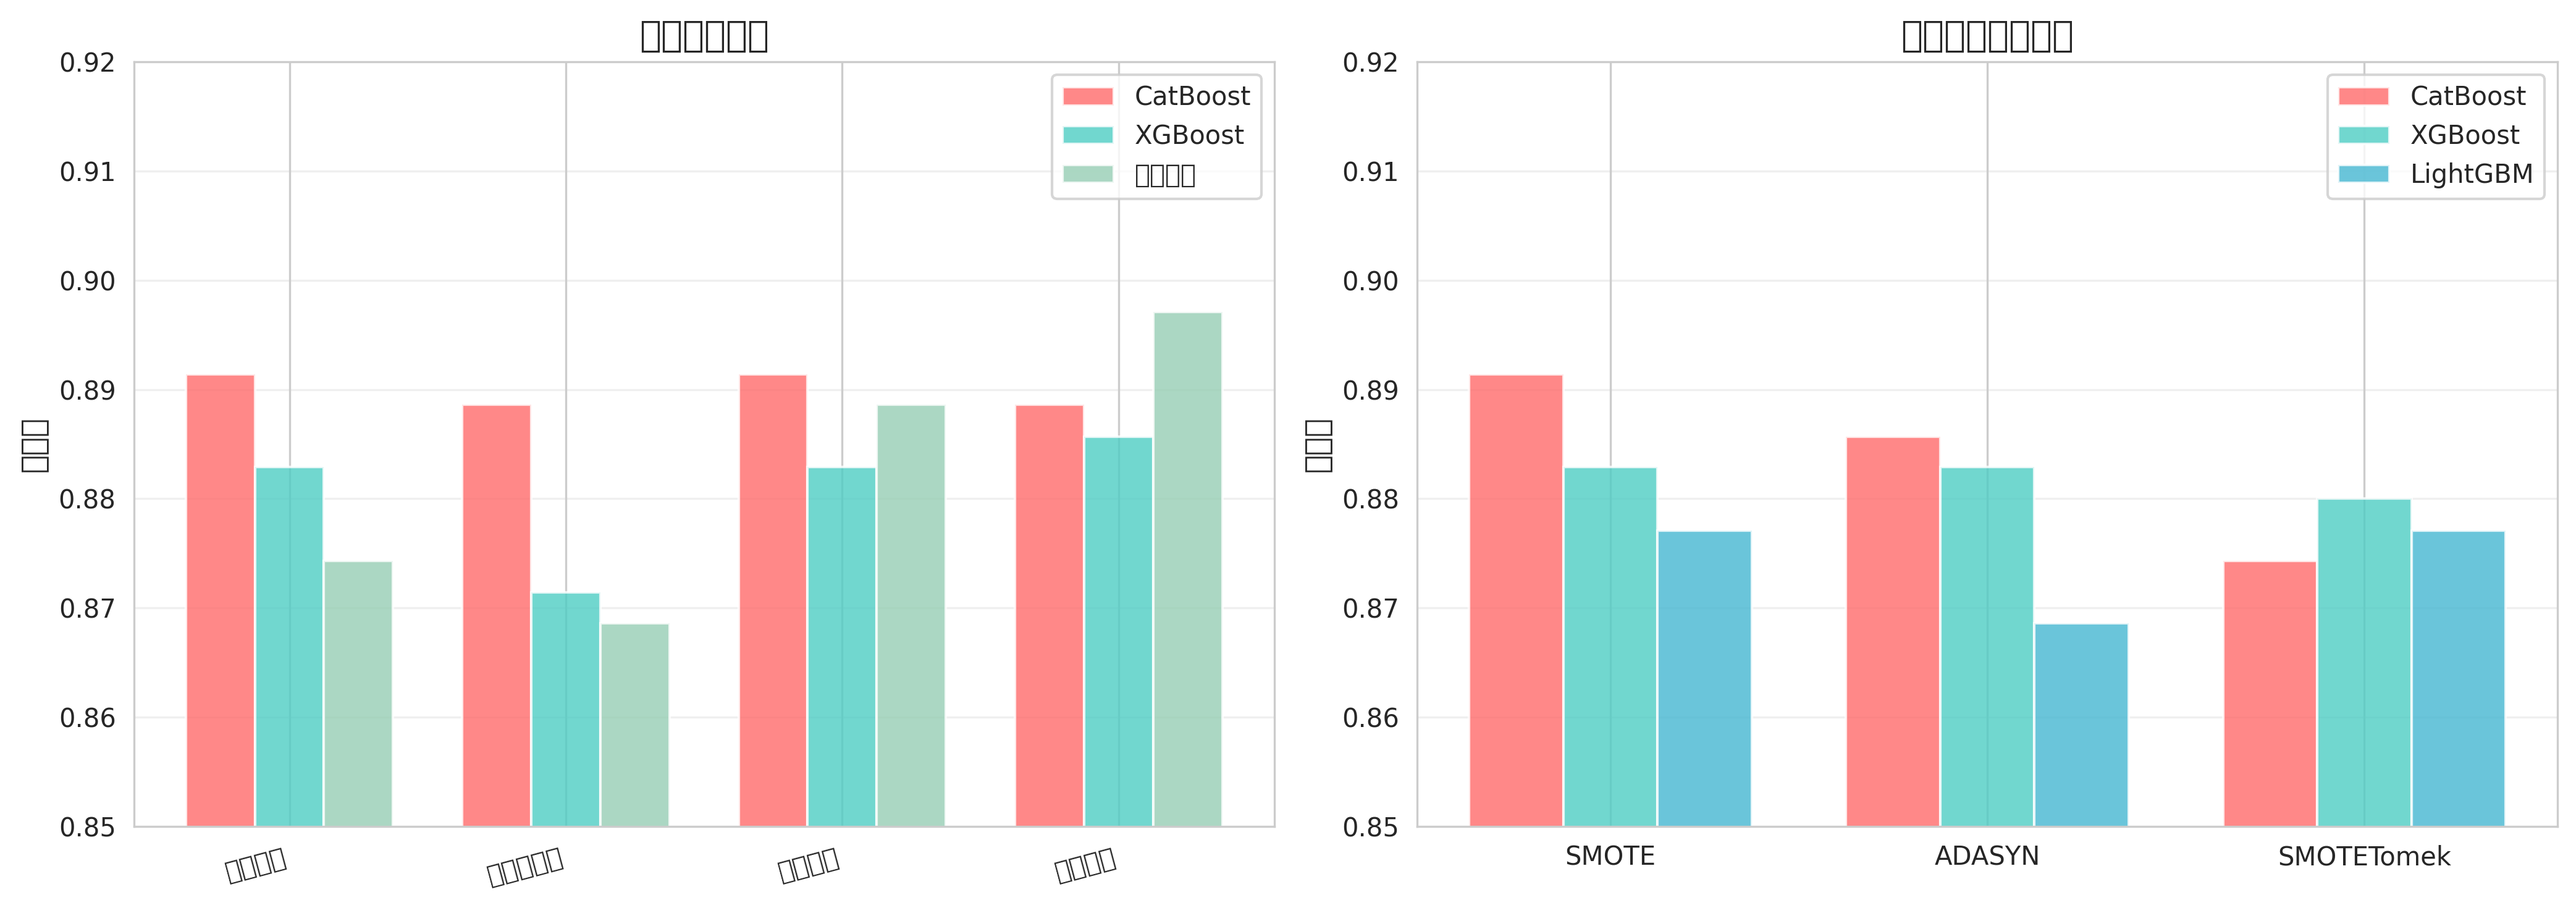
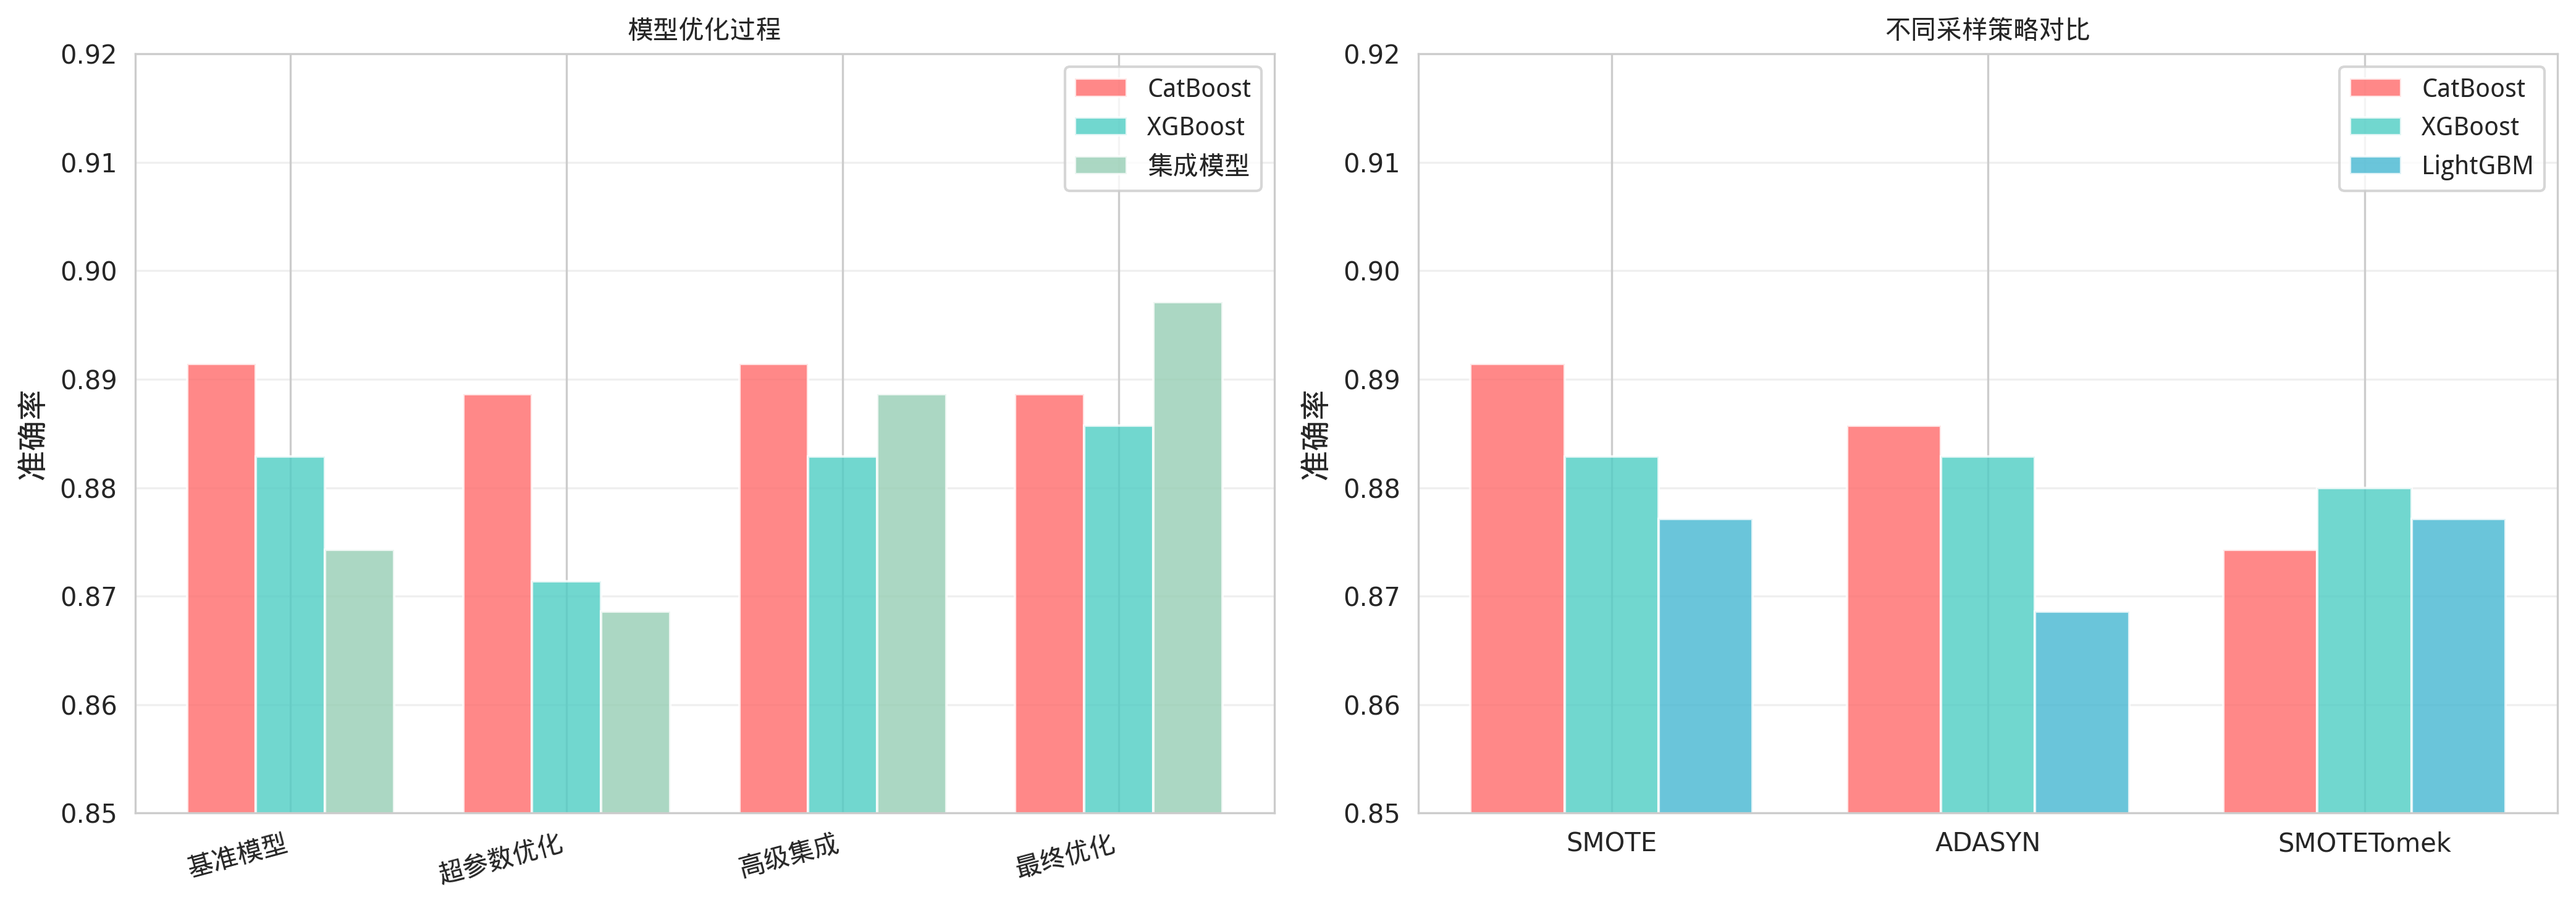
Fix Chinese font display in charts
- 修复所有图表中的中文显示问题
- 使用WenQuanYi Micro Hei字体
- 更新所有9张可视化图表
- 添加改进的图表生成脚本

diff --git a/generate_charts_fixed.py b/generate_charts_fixed.py
@@ -1,0 +1,334 @@
+"""
+生成项目相关的可视化图表（修复中文显示）
+"""
+
+import matplotlib
+matplotlib.use('Agg')  # 使用非交互式后端
+
+import matplotlib.pyplot as plt
+import matplotlib.font_manager as fm
+import numpy as np
+import pandas as pd
+import seaborn as sns
+import os
+
+# 设置中文字体 - 使用系统字体路径
+font_paths = [
+    '/usr/share/fonts/truetype/wqy/wqy-microhei.ttc',
+    '/usr/share/fonts/truetype/wqy/wqy-zenhei.ttc',
+    '/usr/share/fonts/opentype/noto/NotoSansCJK-Regular.ttc',
+]
+
+chinese_font = None
+for font_path in font_paths:
+    if os.path.exists(font_path):
+        chinese_font = fm.FontProperties(fname=font_path)
+        print(f"使用字体文件: {font_path}")
+        # 设置全局字体
+        matplotlib.rcParams['font.family'] = chinese_font.get_name()
+        break
+
+if not chinese_font:
+    print("警告: 未找到中文字体文件")
+    chinese_font = fm.FontProperties()
+
+matplotlib.rcParams['axes.unicode_minus'] = False
+
+# 设置样式
+sns.set_style("whitegrid")
+plt.rcParams['figure.dpi'] = 300
+
+# 创建输出目录
+os.makedirs('diagrams', exist_ok=True)
+
+print("=" * 80)
+print("生成可视化图表")
+print("=" * 80)
+
+# ============================================================================
+# 图1: 模型性能对比
+# ============================================================================
+print("\n生成图1: 模型性能对比...")
+
+fig, ax = plt.subplots(figsize=(12, 6))
+
+models = ['CatBoost', 'XGBoost', 'LightGBM', '集成模型']
+accuracies = [0.8886, 0.8857, 0.8886, 0.8971]
+colors = ['#FF6B6B', '#4ECDC4', '#45B7D1', '#96CEB4']
+
+bars = ax.bar(models, accuracies, color=colors, alpha=0.8, edgecolor='black', linewidth=1.5)
+
+# 添加数值标签
+for i, (bar, acc) in enumerate(zip(bars, accuracies)):
+    height = bar.get_height()
+    ax.text(bar.get_x() + bar.get_width()/2., height,
+            f'{acc:.2%}',
+            ha='center', va='bottom', fontsize=12, fontweight='bold',
+            fontproperties=chinese_font)
+
+ax.set_ylabel('准确率', fontsize=14, fontweight='bold', fontproperties=chinese_font)
+ax.set_title('模型性能对比 - 测试集准确率', fontsize=16, fontweight='bold', pad=20,
+             fontproperties=chinese_font)
+ax.set_ylim([0.85, 0.92])
+ax.axhline(y=0.90, color='red', linestyle='--', linewidth=2, alpha=0.5, label='90%基准线')
+ax.legend(fontsize=11, prop=chinese_font)
+ax.grid(axis='y', alpha=0.3)
+
+plt.tight_layout()
+plt.savefig('diagrams/model_comparison.png', bbox_inches='tight')
+print("✅ 已保存: diagrams/model_comparison.png")
+plt.close()
+
+# ============================================================================
+# 图2: 混淆矩阵热图
+# ============================================================================
+print("\n生成图2: 混淆矩阵热图...")
+
+fig, ax = plt.subplots(figsize=(8, 6))
+
+confusion_matrix = np.array([[291, 6], [30, 23]])
+labels = ['留任', '离职']
+
+sns.heatmap(confusion_matrix, annot=True, fmt='d', cmap='Blues', 
+            xticklabels=labels, yticklabels=labels,
+            cbar_kws={'label': '样本数量'}, ax=ax,
+            annot_kws={'size': 16, 'weight': 'bold'})
+
+# 设置刻度标签字体
+ax.set_xticklabels(labels, fontproperties=chinese_font, fontsize=12)
+ax.set_yticklabels(labels, fontproperties=chinese_font, fontsize=12, rotation=0)
+
+ax.set_xlabel('预测类别', fontsize=14, fontweight='bold', fontproperties=chinese_font)
+ax.set_ylabel('实际类别', fontsize=14, fontweight='bold', fontproperties=chinese_font)
+ax.set_title('集成模型混淆矩阵', fontsize=16, fontweight='bold', pad=20,
+             fontproperties=chinese_font)
+
+# 设置colorbar标签
+cbar = ax.collections[0].colorbar
+cbar.set_label('样本数量', fontproperties=chinese_font, fontsize=12)
+
+# 添加统计信息
+total = confusion_matrix.sum()
+accuracy = (confusion_matrix[0,0] + confusion_matrix[1,1]) / total
+precision_0 = confusion_matrix[0,0] / (confusion_matrix[0,0] + confusion_matrix[1,0])
+recall_0 = confusion_matrix[0,0] / (confusion_matrix[0,0] + confusion_matrix[0,1])
+
+info_text = f'准确率: {accuracy:.2%}\n留任精确率: {precision_0:.2%}\n留任召回率: {recall_0:.2%}'
+ax.text(1.5, -0.3, info_text, fontsize=11, fontproperties=chinese_font,
+        bbox=dict(boxstyle='round', facecolor='wheat', alpha=0.5))
+
+plt.tight_layout()
+plt.savefig('diagrams/confusion_matrix.png', bbox_inches='tight')
+print("✅ 已保存: diagrams/confusion_matrix.png")
+plt.close()
+
+# ============================================================================
+# 图3: 特征重要性Top 15
+# ============================================================================
+print("\n生成图3: 特征重要性...")
+
+if os.path.exists('feature_importance.csv'):
+    feature_imp = pd.read_csv('feature_importance.csv')
+    top_features = feature_imp.head(15)
+    
+    fig, ax = plt.subplots(figsize=(10, 8))
+    
+    colors_gradient = plt.cm.viridis(np.linspace(0.3, 0.9, len(top_features)))
+    
+    bars = ax.barh(range(len(top_features)), top_features['importance'], 
+                   color=colors_gradient, edgecolor='black', linewidth=1)
+    
+    ax.set_yticks(range(len(top_features)))
+    ax.set_yticklabels(top_features['feature'], fontsize=10)
+    ax.set_xlabel('重要性得分', fontsize=12, fontweight='bold', fontproperties=chinese_font)
+    ax.set_title('Top 15 最重要特征', fontsize=14, fontweight='bold', pad=15,
+                 fontproperties=chinese_font)
+    ax.invert_yaxis()
+    
+    # 添加数值标签
+    for i, (bar, val) in enumerate(zip(bars, top_features['importance'])):
+        width = bar.get_width()
+        ax.text(width, bar.get_y() + bar.get_height()/2.,
+                f'{val:.4f}',
+                ha='left', va='center', fontsize=9, fontweight='bold')
+    
+    ax.grid(axis='x', alpha=0.3)
+    plt.tight_layout()
+    plt.savefig('diagrams/feature_importance.png', bbox_inches='tight')
+    print("✅ 已保存: diagrams/feature_importance.png")
+    plt.close()
+else:
+    print("⚠  未找到feature_importance.csv，跳过特征重要性图")
+
+# ============================================================================
+# 图4: 训练过程对比
+# ============================================================================
+print("\n生成图4: 模型优化过程...")
+
+fig, (ax1, ax2) = plt.subplots(1, 2, figsize=(14, 5))
+
+# 基准模型vs优化模型
+stages = ['基准模型', '超参数优化', '高级集成', '最终优化']
+catboost_scores = [0.8914, 0.8886, 0.8914, 0.8886]
+xgboost_scores = [0.8829, 0.8714, 0.8829, 0.8857]
+ensemble_scores = [0.8743, 0.8686, 0.8886, 0.8971]
+
+x = np.arange(len(stages))
+width = 0.25
+
+bars1 = ax1.bar(x - width, catboost_scores, width, label='CatBoost', color='#FF6B6B', alpha=0.8)
+bars2 = ax1.bar(x, xgboost_scores, width, label='XGBoost', color='#4ECDC4', alpha=0.8)
+bars3 = ax1.bar(x + width, ensemble_scores, width, label='集成模型', color='#96CEB4', alpha=0.8)
+
+ax1.set_ylabel('准确率', fontsize=12, fontweight='bold', fontproperties=chinese_font)
+ax1.set_title('模型优化过程', fontsize=14, fontweight='bold', fontproperties=chinese_font)
+ax1.set_xticks(x)
+ax1.set_xticklabels(stages, rotation=15, ha='right', fontproperties=chinese_font)
+ax1.legend(prop=chinese_font)
+ax1.set_ylim([0.85, 0.92])
+ax1.grid(axis='y', alpha=0.3)
+
+# 不同采样策略对比
+sampling_methods = ['SMOTE', 'ADASYN', 'SMOTETomek']
+cb_sampling = [0.8914, 0.8857, 0.8743]
+xgb_sampling = [0.8829, 0.8829, 0.8800]
+lgbm_sampling = [0.8771, 0.8686, 0.8771]
+
+x2 = np.arange(len(sampling_methods))
+bars1 = ax2.bar(x2 - width, cb_sampling, width, label='CatBoost', color='#FF6B6B', alpha=0.8)
+bars2 = ax2.bar(x2, xgb_sampling, width, label='XGBoost', color='#4ECDC4', alpha=0.8)
+bars3 = ax2.bar(x2 + width, lgbm_sampling, width, label='LightGBM', color='#45B7D1', alpha=0.8)
+
+ax2.set_ylabel('准确率', fontsize=12, fontweight='bold', fontproperties=chinese_font)
+ax2.set_title('不同采样策略对比', fontsize=14, fontweight='bold', fontproperties=chinese_font)
+ax2.set_xticks(x2)
+ax2.set_xticklabels(sampling_methods)
+ax2.legend(prop=chinese_font)
+ax2.set_ylim([0.85, 0.92])
+ax2.grid(axis='y', alpha=0.3)
+
+plt.tight_layout()
+plt.savefig('diagrams/optimization_process.png', bbox_inches='tight')
+print("✅ 已保存: diagrams/optimization_process.png")
+plt.close()
+
+# ============================================================================
+# 图5: 数据分布
+# ============================================================================
+print("\n生成图5: 数据集分布...")
+
+fig, ((ax1, ax2), (ax3, ax4)) = plt.subplots(2, 2, figsize=(12, 10))
+
+# 数据集大小
+datasets = ['训练集', '验证集', '测试集']
+sizes = [880, 220, 350]
+colors_pie = ['#FF6B6B', '#4ECDC4', '#45B7D1']
+
+wedges, texts, autotexts = ax1.pie(sizes, labels=datasets, autopct='%1.1f%%',
+                                     colors=colors_pie, startangle=90,
+                                     textprops={'fontsize': 11, 'weight': 'bold'})
+# 设置饼图标签字体
+for text in texts:
+    text.set_fontproperties(chinese_font)
+ax1.set_title('数据集划分', fontsize=14, fontweight='bold', fontproperties=chinese_font)
+
+# 类别分布
+categories = ['留任', '离职']
+train_dist = [922, 178]
+colors_bar = ['#96CEB4', '#FF6B6B']
+
+ax2.bar(categories, train_dist, color=colors_bar, alpha=0.8, edgecolor='black', linewidth=1.5)
+ax2.set_xticklabels(categories, fontproperties=chinese_font)
+ax2.set_ylabel('样本数量', fontsize=12, fontweight='bold', fontproperties=chinese_font)
+ax2.set_title('训练集类别分布', fontsize=14, fontweight='bold', fontproperties=chinese_font)
+for i, v in enumerate(train_dist):
+    ax2.text(i, v + 20, f'{v}\n({v/sum(train_dist)*100:.1f}%)', 
+             ha='center', fontweight='bold', fontproperties=chinese_font)
+ax2.grid(axis='y', alpha=0.3)
+
+# SMOTE前后对比
+labels = ['SMOTE前', 'SMOTE后']
+retention = [922, 922]
+attrition = [178, 922]
+
+x3 = np.arange(len(labels))
+width = 0.35
+
+bars1 = ax3.bar(x3 - width/2, retention, width, label='留任', color='#96CEB4', alpha=0.8)
+bars2 = ax3.bar(x3 + width/2, attrition, width, label='离职', color='#FF6B6B', alpha=0.8)
+
+ax3.set_ylabel('样本数量', fontsize=12, fontweight='bold', fontproperties=chinese_font)
+ax3.set_title('SMOTE数据平衡', fontsize=14, fontweight='bold', fontproperties=chinese_font)
+ax3.set_xticks(x3)
+ax3.set_xticklabels(labels, fontproperties=chinese_font)
+ax3.legend(prop=chinese_font)
+ax3.grid(axis='y', alpha=0.3)
+
+# 特征数量变化
+stages_feat = ['原始特征', '外部数据', '特征工程', '最终特征']
+feature_counts = [31, 37, 51, 51]
+
+ax4.plot(stages_feat, feature_counts, marker='o', linewidth=3, 
+         markersize=10, color='#4ECDC4')
+ax4.fill_between(range(len(stages_feat)), feature_counts, alpha=0.3, color='#4ECDC4')
+ax4.set_ylabel('特征数量', fontsize=12, fontweight='bold', fontproperties=chinese_font)
+ax4.set_title('特征工程进展', fontsize=14, fontweight='bold', fontproperties=chinese_font)
+ax4.set_xticks(range(len(stages_feat)))
+ax4.set_xticklabels(stages_feat, rotation=15, ha='right', fontproperties=chinese_font)
+ax4.grid(alpha=0.3)
+
+for i, v in enumerate(feature_counts):
+    ax4.text(i, v + 1, str(v), ha='center', fontweight='bold', fontsize=11)
+
+plt.tight_layout()
+plt.savefig('diagrams/data_distribution.png', bbox_inches='tight')
+print("✅ 已保存: diagrams/data_distribution.png")
+plt.close()
+
+# ============================================================================
+# 图6: 性能指标雷达图
+# ============================================================================
+print("\n生成图6: 性能指标雷达图...")
+
+fig, ax = plt.subplots(figsize=(8, 8), subplot_kw=dict(projection='polar'))
+
+categories = ['准确率', '留任精确率', '留任召回率', '离职精确率', '离职召回率']
+values = [0.8971, 0.91, 0.98, 0.79, 0.43]
+
+# 闭合图形
+values += values[:1]
+angles = np.linspace(0, 2 * np.pi, len(categories), endpoint=False).tolist()
+angles += angles[:1]
+
+ax.plot(angles, values, 'o-', linewidth=2, color='#4ECDC4', label='集成模型')
+ax.fill(angles, values, alpha=0.25, color='#4ECDC4')
+
+# 添加基准线
+baseline = [0.85] * len(angles)
+ax.plot(angles, baseline, '--', linewidth=1.5, color='red', alpha=0.5, label='85%基准')
+
+ax.set_xticks(angles[:-1])
+ax.set_xticklabels(categories, fontsize=11, fontproperties=chinese_font)
+ax.set_ylim(0, 1)
+ax.set_yticks([0.2, 0.4, 0.6, 0.8, 1.0])
+ax.set_yticklabels(['20%', '40%', '60%', '80%', '100%'])
+ax.set_title('模型性能指标雷达图', fontsize=14, fontweight='bold', pad=20,
+             fontproperties=chinese_font)
+ax.legend(loc='upper right', bbox_to_anchor=(1.3, 1.1), prop=chinese_font)
+ax.grid(True)
+
+plt.tight_layout()
+plt.savefig('diagrams/performance_radar.png', bbox_inches='tight')
+print("✅ 已保存: diagrams/performance_radar.png")
+plt.close()
+
+print("\n" + "=" * 80)
+print("所有图表生成完成！")
+print("=" * 80)
+print("\n生成的图表:")
+print("1. diagrams/model_comparison.png - 模型性能对比")
+print("2. diagrams/confusion_matrix.png - 混淆矩阵热图")
+print("3. diagrams/feature_importance.png - 特征重要性")
+print("4. diagrams/optimization_process.png - 优化过程")
+print("5. diagrams/data_distribution.png - 数据分布")
+print("6. diagrams/performance_radar.png - 性能雷达图")
